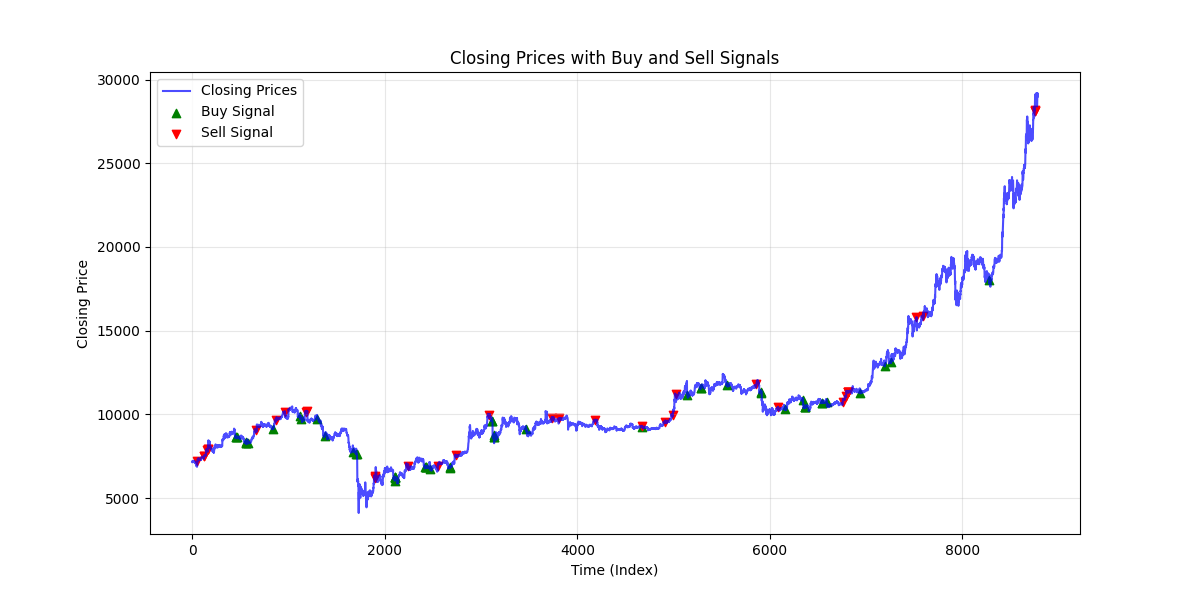
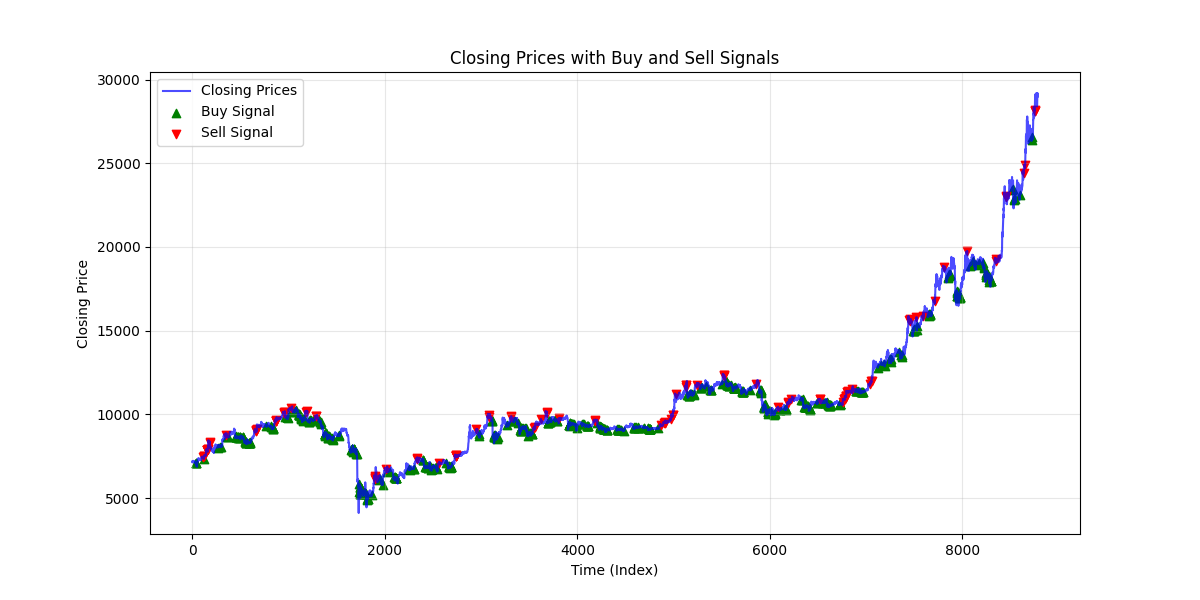
MACD WORKING MUAHAHAA

diff --git a/utils/plots.py b/utils/plots.py
@@ -72,3 +72,43 @@ def plot_macd_with_signals(data, macd_line, signal_line, signals, plot_name="mac
     # Save the plot
     plt.tight_layout()
     plt.savefig(f"plots/{plot_name}.png")
+
+import matplotlib.pyplot as plt
+
+def plot_macd(prices, macd_line, signal_line, macd_histogram, plot_name="macd_plot"):
+    """
+    Plot the MACD line, Signal line, MACD histogram, and prices.
+
+    Parameters:
+        prices (numpy.ndarray): Array of price values.
+        macd_line (numpy.ndarray): The MACD line (difference between fast and slow EMA).
+        signal_line (numpy.ndarray): The Signal Line (EMA of the MACD line).
+        macd_histogram (numpy.ndarray): The MACD Histogram (MACD line - Signal line).
+        plot_name (str): The name of the plot file to save.
+    """
+    plt.figure(figsize=(14, 8))
+
+    # Plot the prices
+    plt.subplot(2, 1, 1)
+    plt.plot(prices, label="Prices", color="blue", alpha=0.7)
+    plt.title("Prices")
+    plt.xlabel("Time")
+    plt.ylabel("Price")
+    plt.legend()
+    plt.grid(alpha=0.3)
+
+    # Plot the MACD line, Signal line, and MACD histogram
+    plt.subplot(2, 1, 2)
+    plt.plot(macd_line, label="MACD Line", color="orange", alpha=0.7)
+    plt.plot(signal_line, label="Signal Line", color="purple", alpha=0.7)
+    plt.bar(range(len(macd_histogram)), macd_histogram, label="MACD Histogram", color="gray", alpha=0.5)
+    plt.title("MACD Line, Signal Line, and Histogram")
+    plt.xlabel("Time")
+    plt.ylabel("Value")
+    plt.legend()
+    plt.grid(alpha=0.3)
+
+    # Save the plot
+    plt.tight_layout()
+    plt.savefig(f"plots/{plot_name}.png")
+    plt.close()

diff --git a/filters/macd.py b/filters/macd.py
@@ -1,9 +1,8 @@
 import numpy as np
-from filters.wma import ema_filter, wma, pad
 
 def macd(prices, fast_window, slow_window, signal_window):
     """
-    Calculate the MACD (Moving Average Convergence Divergence) and Signal Line.
+    Calculate the MACD and Signal Line.
 
     Parameters:
         prices (numpy.ndarray): Array of price values.
@@ -17,16 +16,21 @@ def macd(prices, fast_window, slow_window, signal_window):
             - signal_line (numpy.ndarray): The Signal Line (EMA of the MACD line).
             - macd_histogram (numpy.ndarray): The MACD Histogram (MACD line - Signal line).
     """
-    fast_filter = ema_filter(fast_window, alpha=2 / (fast_window + 1))
-    slow_filter = ema_filter(slow_window, alpha=2 / (slow_window + 1))
+    def ema(prices, window):
+        ema = np.zeros_like(prices)
+        multiplier = 2 / (window + 1)
+        ema[0] = prices[0]
+        for i in range(1, len(prices)):
+            ema[i] = (prices[i] - ema[i - 1]) * multiplier + ema[i - 1]
+        return ema
 
-    fast_ema = wma(prices, fast_window, fast_filter)
-    slow_ema = wma(prices, slow_window, slow_filter)
+    fast_ema = ema(prices, fast_window)
+    slow_ema = ema(prices, slow_window)
 
-    macd_line = fast_ema - slow_ema 
+    macd_line = fast_ema - slow_ema
 
-    signal_filter = ema_filter(signal_window, alpha=2 / (signal_window + 1))
-    signal_line = wma(macd_line, signal_window, signal_filter)
+    signal_line = ema(macd_line, signal_window)
 
-    macd_histogram = macd_line - signal_line 
+    macd_histogram = macd_line - signal_line
+
     return macd_line, signal_line, macd_histogram

diff --git a/bots/macd_bot.py b/bots/macd_bot.py
@@ -3,8 +3,7 @@ from bots.bot_base import bot
 from filters.macd import macd
 from utils.data_loader import read_csv
 from config import TRAINING_DATASET_PATH
-from pantry.grid_search_optimiser import grid_search_optimiser
-from utils.plots import plot_macd_with_signals
+from optimisers.aco_optimiser import aco_optimiser
 
 class macd_bot(bot):
     """
@@ -21,9 +20,9 @@ class macd_bot(bot):
     def __init__(self):
         self.hyperparams = []
         self.bounds = [
-            list(range(5, 31)),
-            list(range(20, 61)), 
-            list(range(5, 21)), 
+            list(range(1, 200)),
+            list(range(1, 200)), 
+            list(range(1, 200)), 
         ]
 
     def generate_signals(self, data):
@@ -45,9 +44,10 @@ class macd_bot(bot):
         sell_signals = (macd_line[1:] < signal_line[1:]) & (macd_line[:-1] >= signal_line[:-1])
         signals[1:][sell_signals] = -1
 
-        # plot_macd_with_signals(data, macd_line, signal_line, signals, plot_name="macd_signals")
         return signals
 
 macd_bot_instance = macd_bot()
-training_data = read_csv(TRAINING_DATASET_PATH, start_date="2017-01-01", end_date="2018-12-31")
-grid_search_optimiser(macd_bot_instance, training_data)
+training_data = read_csv(TRAINING_DATASET_PATH, start_date="2015-01-01", end_date="2018-12-31")
+aco_optimiser(macd_bot_instance, training_data)
+# macd_bot_instance.hyperparams = [12, 26, 9] # 12-26-9 method popular with traders
+# macd_bot_instance.hyperparams = [125, 192, 140] # ACO optimised values

diff --git a/test_macd_bot.py b/test_macd_bot.py
@@ -1,0 +1,35 @@
+from utils.plots import plot_macd_with_signals
+from utils.data_loader import generate_test_data, read_csv
+
+def test_macd_bot_with_generated_data():
+    """
+    Generate 4 test datasets and test them against the MACD bot.
+    """
+    from bots.macd_bot import macd_bot_instance
+
+    # Generate 4 datasets
+    datasets = [
+        read_csv("data/BTC-Daily-2020.csv", start_date="2020-01-01", end_date="2020-12-31"),
+        read_csv("data/BTC-Daily-2021.csv", start_date="2021-01-01", end_date="2021-12-31")
+    ]
+
+    for i, data in enumerate(datasets, start=1):
+        try:
+            print(f"Testing MACD bot on generated dataset {i}...")
+
+            # Generate signals and MACD lines
+            signals, macd_line, signal_line = macd_bot_instance.generate_signals(data)
+            # Plot the results
+            plot_macd_with_signals(
+                data,
+                macd_line,
+                signal_line,
+                signals,
+                plot_name=f"macd_bot_BTC-Daily-2020_with_signals_aco_{i}"
+            )
+
+        except Exception as e:
+            print(f"Error testing MACD bot on generated dataset {i}: {e}")
+
+if __name__ == "__main__":
+    test_macd_bot_with_generated_data()

diff --git a/test_bollinger_bot.py b/test_bollinger_bot.py
@@ -1,0 +1,32 @@
+from utils.plots import plot
+from utils.data_loader import read_csv
+
+def test_macd_bot_with_generated_data():
+    """
+    Generate 4 test datasets and test them against the MACD bot.
+    """
+    from bots.bollinger_bot import bollinger_bot
+    default_bollinger_bot = bollinger_bot()
+    default_bollinger_bot.hyperparams = [20, 2] # Traditional Bollinger Bands
+
+    # Generate 4 datasets
+    datasets = [
+        read_csv("data/BTC-Daily-2020.csv", start_date="2020-01-01", end_date="2020-12-31"),
+        read_csv("data/BTC-Daily-2021.csv", start_date="2021-01-01", end_date="2021-12-31")
+    ]
+
+    for i, data in enumerate(datasets, start=1):
+        try:
+            print(f"Testing Bollinger bot on generated dataset {i}...")
+            signals = default_bollinger_bot.generate_signals(data)
+            plot(
+                data,
+                signals,
+                plot_name=f"bollinger_bot_BTC-Daily_default_{i}",
+            )
+
+        except Exception as e:
+            print(f"Error testing MACD bot on generated dataset {i}: {e}")
+
+if __name__ == "__main__":
+    test_macd_bot_with_generated_data()

diff --git a/utils/data_loader.py b/utils/data_loader.py
@@ -1,4 +1,5 @@
 import pandas as pd
+import numpy as np
 
 def read_csv(file_path, columns=['date', 'close'], start_date=None, end_date=None):
     """
@@ -28,3 +29,15 @@ def read_csv(file_path, columns=['date', 'close'], start_date=None, end_date=Non
         raise ValueError(f"Error reading the file. Ensure the specified columns exist in the CSV. {e}")
     
     return df
+
+def generate_test_data():
+    """
+    Generate a 100-day test dataset with fluctuating BTC/USD prices.
+
+    Returns:
+        pd.DataFrame: A DataFrame with one column 'close' containing 100 points of test data.
+    """
+    np.random.seed(42)  # For reproducibility
+    prices = np.cumsum(np.random.randn(100) * 10 + 50000)  # Simulate price fluctuations around $50,000
+    dates = pd.date_range(start="2025-01-01", periods=100)
+    return pd.DataFrame({"date": dates, "close": prices})
